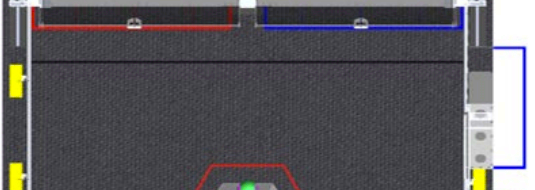
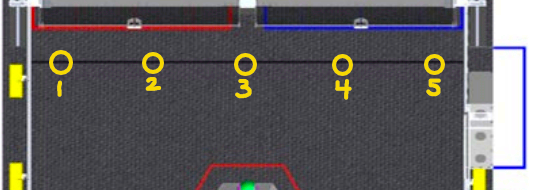
final revisions from version 1

diff --git a/lib/main.dart b/lib/main.dart
@@ -69,6 +69,12 @@ class _MyHomePageState extends State<MyHomePage> {
   bool defenseValue = false;
   int autoTakeOffCount = 0;
   int teleTakeOffCount = 0;
+  bool reefOneValue = false;
+  bool reefTwoValue = false;
+  bool reefThreeValue = false;
+  bool reefFourValue = false;
+  bool reefFiveValue = false;
+  bool reefSixValue = false;
 
   String printBoolean(bool value) {
     return value ? 'Yes' : 'No';
@@ -168,7 +174,7 @@ class _MyHomePageState extends State<MyHomePage> {
         onDestinationSelected: (int index) {
           setState(() {
             currentPageIndex = index;
-            if (currentPageIndex == 4) {
+            if (currentPageIndex == 5) {
               formatData();
             }
           });
@@ -186,6 +192,11 @@ class _MyHomePageState extends State<MyHomePage> {
             selectedIcon: Icon(Icons.adb),
             icon: Icon(Icons.adb_outlined),
             label: 'Auto',
+          ),
+          NavigationDestination(
+            selectedIcon: Icon(Icons.map),
+            icon: Icon(Icons.map_outlined),
+            label: 'Reef',
           ),
           NavigationDestination(
             selectedIcon: Icon(Icons.videogame_asset),
@@ -298,77 +309,119 @@ class _MyHomePageState extends State<MyHomePage> {
                   ),
                 ),
                 Padding(
-                  padding: const EdgeInsets.all(8.0),
-                  child: Row(
-                    mainAxisAlignment: MainAxisAlignment.spaceEvenly,
-                    children: [
-                      Radio<int>(
-                        value: 1,
-                        activeColor: Colors.amber,
-                        groupValue: selectedValue,
-                        onChanged: (int? value) {
-                          setState(() {
-                            selectedValue = value!;
-                          });
-                        },
-                      ),
-                      SizedBox(width: 8),
-                      Radio<int>(
-                        value: 2,
-                        activeColor: Colors.amber,
-                        groupValue: selectedValue,
-                        onChanged: (int? value) {
-                          setState(() {
-                            selectedValue = value!;
-                          });
-                        },
-                      ),
-                      SizedBox(width: 8),
-                      Radio<int>(
-                        value: 3,
-                        activeColor: Colors.amber,
-                        groupValue: selectedValue,
-                        onChanged: (int? value) {
-                          setState(() {
-                            selectedValue = value!;
-                          });
-                        },
-                      ),
-                      SizedBox(
-                        width: 8,
-                      ),
-                      Radio<int>(
-                        value: 4,
-                        activeColor: Colors.amber,
-                        groupValue: selectedValue,
-                        onChanged: (int? value) {
-                          setState(() {
-                            selectedValue = value!;
-                          });
-                        },
-                      ),
-                      SizedBox(
-                        width: 8,
-                      ),
-                      Radio<int>(
-                        value: 5,
-                        activeColor: Colors.amber,
-                        groupValue: selectedValue,
-                        onChanged: (int? value) {
-                          setState(() {
-                            selectedValue = value!;
-                          });
-                        },
-                      ),
-                    ],
-                  ),
-                ),
-                Padding(
                     padding: const EdgeInsets.all(8.0),
                     child: Image.asset(
                       'assets/images/field image.png',
                       fit: BoxFit.cover,
-                    ))
+                    )),
+                Padding(
+                  padding: const EdgeInsets.all(8.0),
+                  child: Row(
+                    mainAxisAlignment: MainAxisAlignment.spaceEvenly,
+                    children: [
+                      Column(
+                        children: [
+                          Radio<int>(
+                            value: 1,
+                            activeColor: Colors.amber,
+                            groupValue: selectedValue,
+                            onChanged: (int? value) {
+                              setState(() {
+                                selectedValue = value!;
+                              });
+                            },
+                          ),
+                          Text(
+                            '1',
+                            style: TextStyle(
+                                color: Colors.amber,
+                                fontWeight: FontWeight.bold),
+                          ),
+                        ],
+                      ),
+                      Column(
+                        children: [
+                          Radio<int>(
+                            value: 2,
+                            activeColor: Colors.amber,
+                            groupValue: selectedValue,
+                            onChanged: (int? value) {
+                              setState(() {
+                                selectedValue = value!;
+                              });
+                            },
+                          ),
+                          Text(
+                            '2',
+                            style: TextStyle(
+                                color: Colors.amber,
+                                fontWeight: FontWeight.bold),
+                          ),
+                        ],
+                      ),
+                      Column(
+                        children: [
+                          Radio<int>(
+                            value: 3,
+                            activeColor: Colors.amber,
+                            groupValue: selectedValue,
+                            onChanged: (int? value) {
+                              setState(() {
+                                selectedValue = value!;
+                              });
+                            },
+                          ),
+                          Text(
+                            '3',
+                            style: TextStyle(
+                                color: Colors.amber,
+                                fontWeight: FontWeight.bold),
+                          ),
+                        ],
+                      ),
+                      Column(
+                        children: [
+                          Radio<int>(
+                            value: 4,
+                            activeColor: Colors.amber,
+                            groupValue: selectedValue,
+                            onChanged: (int? value) {
+                              setState(() {
+                                selectedValue = value!;
+                              });
+                            },
+                          ),
+                          Text(
+                            '4',
+                            style: TextStyle(
+                                color: Colors.amber,
+                                fontWeight: FontWeight.bold),
+                          ),
+                        ],
+                      ),
+                      Column(
+                        children: [
+                          Radio<int>(
+                            value: 5,
+                            activeColor: Colors.amber,
+                            groupValue: selectedValue,
+                            onChanged: (int? value) {
+                              setState(() {
+                                selectedValue = value!;
+                              });
+                            },
+                          ),
+                          Text(
+                            '5',
+                            style: TextStyle(
+                                color: Colors.amber,
+                                fontWeight: FontWeight.bold),
+                          ),
+                        ],
+                      ),
+                    ],
+                  ),
+                ),
               ],
             )),
         Card(
@@ -745,6 +798,177 @@ class _MyHomePageState extends State<MyHomePage> {
                           }
                         });
                       },
+                    ),
+                  ],
+                ),
+              ),
+            ],
+          ),
+        ),
+        Card(
+          shadowColor: Colors.transparent,
+          margin: const EdgeInsets.all(8.0),
+          child: Column(
+            children: [
+              Padding(
+                padding: const EdgeInsets.all(8.0),
+                child: Row(
+                  mainAxisAlignment: MainAxisAlignment.center,
+                  children: [
+                    Text(
+                      "Reef Placement",
+                      style: TextStyle(
+                        color: Colors.white,
+                        fontSize: 36.0,
+                        fontWeight: FontWeight.bold,
+                      ),
+                    ),
+                  ],
+                ),
+              ),
+              Padding(
+                padding: const EdgeInsets.all(8.0),
+                child: Row(
+                  children: [
+                    Expanded(
+                      child: Image.asset(
+                        'assets/images/reef placement.png',
+                        fit: BoxFit.cover, // Adjust as needed
+                      ),
+                    ),
+                  ],
+                ),
+              ),
+              Padding(
+                padding: const EdgeInsets.all(8.0),
+                child: Row(
+                  mainAxisAlignment: MainAxisAlignment.spaceEvenly,
+                  children: [
+                    Column(
+                      children: [
+                        Checkbox(
+                          value: reefOneValue,
+                          activeColor: Colors.amber,
+                          onChanged: (newValue) {
+                            setState(() {
+                              reefOneValue = newValue!;
+                            });
+                          },
+                        ),
+                        Text(
+                          "1",
+                          style: TextStyle(
+                            fontSize: 16.0,
+                            color: Colors.amber,
+                            fontWeight: FontWeight.bold,
+                          ),
+                        ),
+                      ],
+                    ),
+                    Column(
+                      children: [
+                        Checkbox(
+                          value: reefTwoValue,
+                          activeColor: Colors.amber,
+                          onChanged: (newValue) {
+                            setState(() {
+                              reefTwoValue = newValue!;
+                            });
+                          },
+                        ),
+                        Text(
+                          "2",
+                          style: TextStyle(
+                            fontSize: 16.0,
+                            color: Colors.amber,
+                            fontWeight: FontWeight.bold,
+                          ),
+                        ),
+                      ],
+                    ),
+                    Column(
+                      children: [
+                        Checkbox(
+                          value: reefThreeValue,
+                          activeColor: Colors.amber,
+                          onChanged: (newValue) {
+                            setState(() {
+                              reefThreeValue = newValue!;
+                            });
+                          },
+                        ),
+                        Text(
+                          "3",
+                          style: TextStyle(
+                            fontSize: 16.0,
+                            color: Colors.amber,
+                            fontWeight: FontWeight.bold,
+                          ),
+                        ),
+                      ],
+                    ),
+                    Column(
+                      children: [
+                        Checkbox(
+                          value: reefFourValue,
+                          activeColor: Colors.amber,
+                          onChanged: (newValue) {
+                            setState(() {
+                              reefFourValue = newValue!;
+                            });
+                          },
+                        ),
+                        Text(
+                          "4",
+                          style: TextStyle(
+                            fontSize: 16.0,
+                            color: Colors.amber,
+                            fontWeight: FontWeight.bold,
+                          ),
+                        ),
+                      ],
+                    ),
+                    Column(
+                      children: [
+                        Checkbox(
+                          value: reefFiveValue,
+                          activeColor: Colors.amber,
+                          onChanged: (newValue) {
+                            setState(() {
+                              reefFiveValue = newValue!;
+                            });
+                          },
+                        ),
+                        Text(
+                          "5",
+                          style: TextStyle(
+                            fontSize: 16.0,
+                            color: Colors.amber,
+                            fontWeight: FontWeight.bold,
+                          ),
+                        ),
+                      ],
+                    ),
+                    Column(
+                      children: [
+                        Checkbox(
+                          value: reefSixValue,
+                          activeColor: Colors.amber,
+                          onChanged: (newValue) {
+                            setState(() {
+                              reefSixValue = newValue!;
+                            });
+                          },
+                        ),
+                        Text(
+                          "6",
+                          style: TextStyle(
+                            fontSize: 16.0,
+                            color: Colors.amber,
+                            fontWeight: FontWeight.bold,
+                          ),
+                        ),
+                      ],
                     ),
                   ],
                 ),
